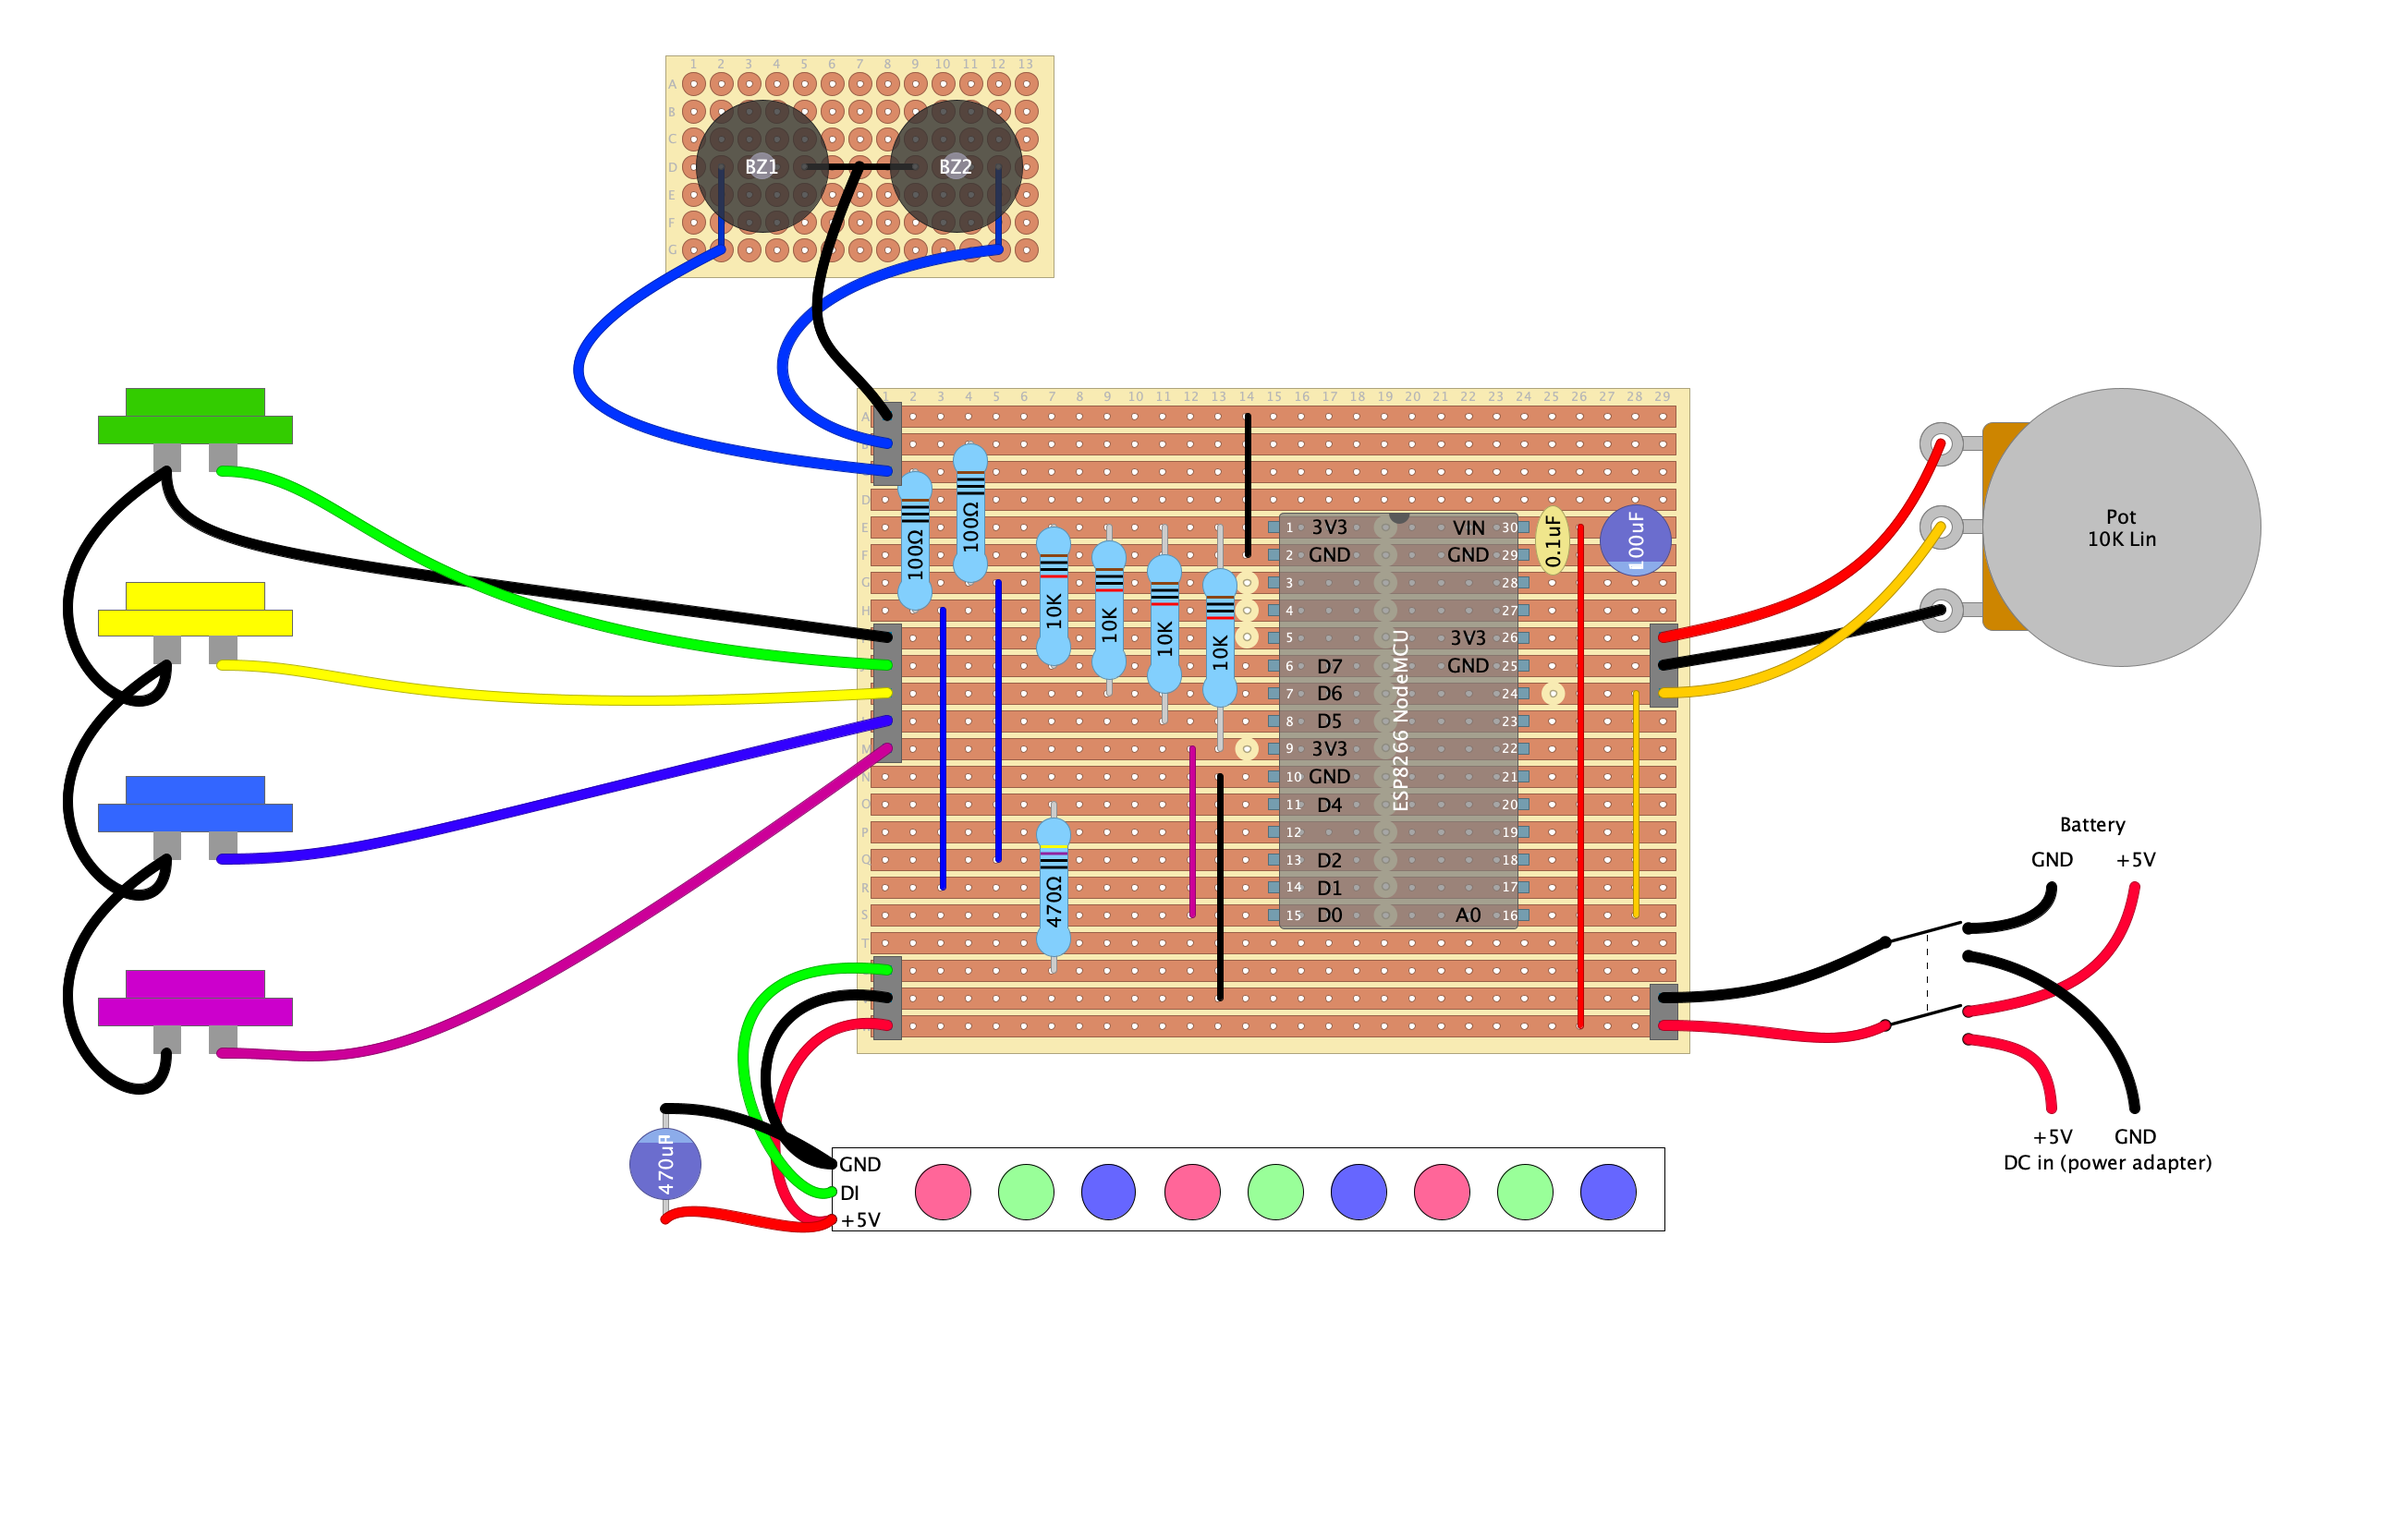
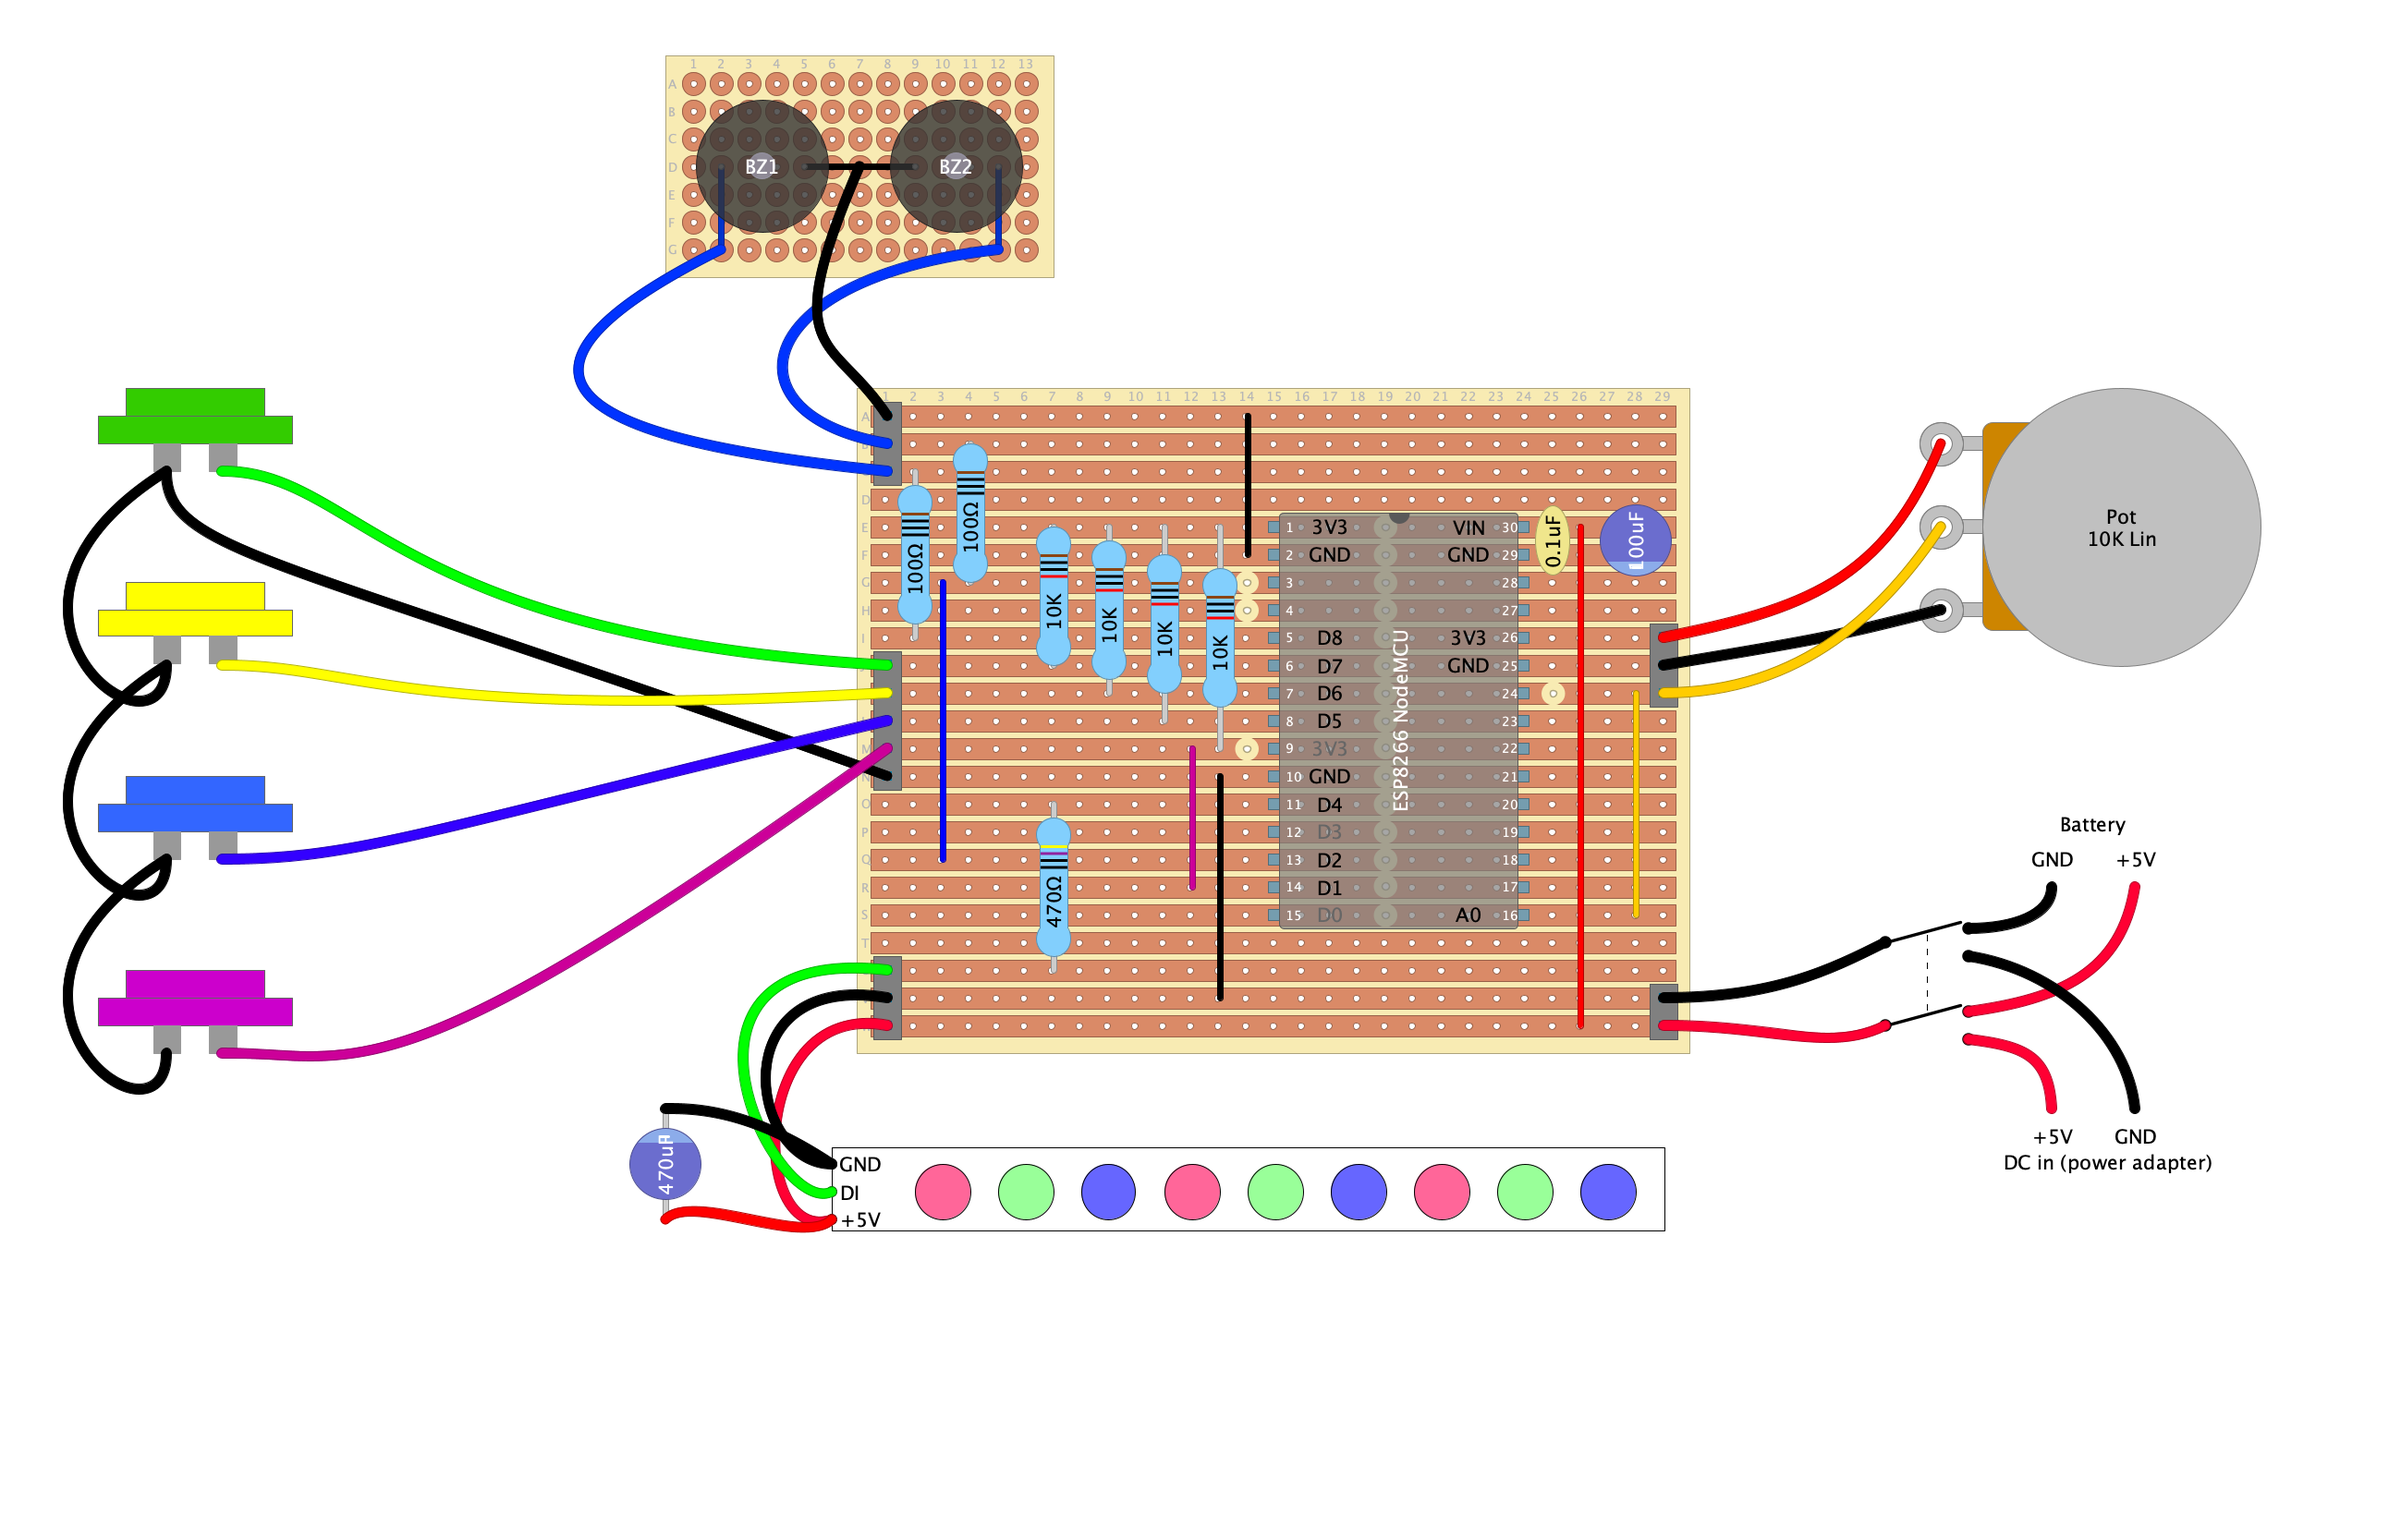
Change pins for button 1 and buzzer 1

diff --git a/docs/specs.md b/docs/specs.md
@@ -21,17 +21,24 @@ This section is mostly for Copilot :)
 - When referring to GPIO pins, provide the D-number in addition to the pin number. For example, D2 (GPIO4). This is because the D-number is easier to reference when starting to connect components.
 - Several components are using the Automaton library.
 
-## 🔌 Wiring
+## 🔌 Input/output pins
 
-| Component              | D-number | GPIO   | Comment                                                               |
-| ---------------------- | -------- | ------ | --------------------------------------------------------------------- |
-| Button 1               | D0       | GPIO16 | OK for use as button, but will require **external pull-up resistor**. |
-| Button 2               | D5       | GPIO14 |                                                                       |
-| Button 3               | D6       | GPIO12 |                                                                       |
-| Button 4               | D7       | GPIO13 |                                                                       |
-| Buzzer 1 (PWM)         | D1       | GPIO5  | Good pin for PWM, works well with `tone()`.                           |
-| Buzzer 2 (PWM)         | D2       | GPIO4  | Good pin for PWM, works well with `tone()`.                           |
-| Neopixel (9 LEDs)      | D4       | GPIO2  | OK pin for Neopixel. **This pin needs to be HIGH at boot**            |
-| Potensiometer (analog) | A0       | A0     | The only analog input.                                                |
+| Component              | Label | GPIO   | Comment                                                                         |
+| ---------------------- | ----- | ------ | ------------------------------------------------------------------------------- |
+| Button 1               | D1    | GPIO5  |                                                                                 |
+| Button 2               | D5    | GPIO14 |                                                                                 |
+| Button 3               | D6    | GPIO12 |                                                                                 |
+| Button 4               | D7    | GPIO13 |                                                                                 |
+| Buzzer 1 (PWM)         | D2    | GPIO4  |                                                                                 |
+| Buzzer 2 (PWM)         | D8    | GPIO15 | **Required LOW at boot.** Internal input pulldown. Boot fails if pulled HIGH.   |
+| Neopixel (9 LEDs)      | D4    | GPIO2  | **Required HIGH at boot.** Connected to on-board LED, boot fails if pulled LOW. |
+| Potensiometer (analog) | A0    | ADC0   |                                                                                 |
 
 See [the scematic](/docs/diagrams/scematic.png) for further details on wiring.
+
+## 🆓 Unused pins
+
+| Label | GPIO   | Comment                                                                                                                     |
+| ----- | ------ | --------------------------------------------------------------------------------------------------------------------------- |
+| D0    | GPIO16 | **Required HIGH at boot.** Used to wake up from deep sleep (by connecting to RST). Does not support interrupts, PWM or I2C. |
+| D3    | GPIO0  | **Required LOW at boot.** Connected to FLASH button, boot fails if pulled LOW. Internal input pullup.                       |
